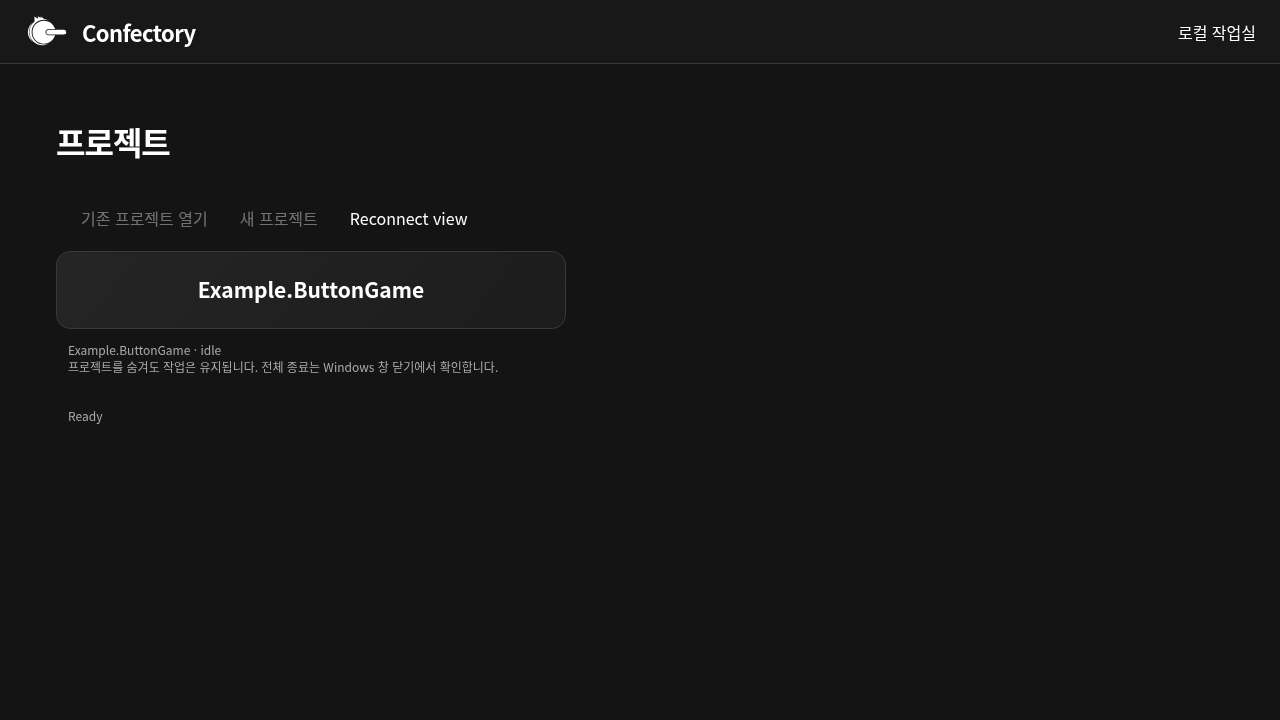
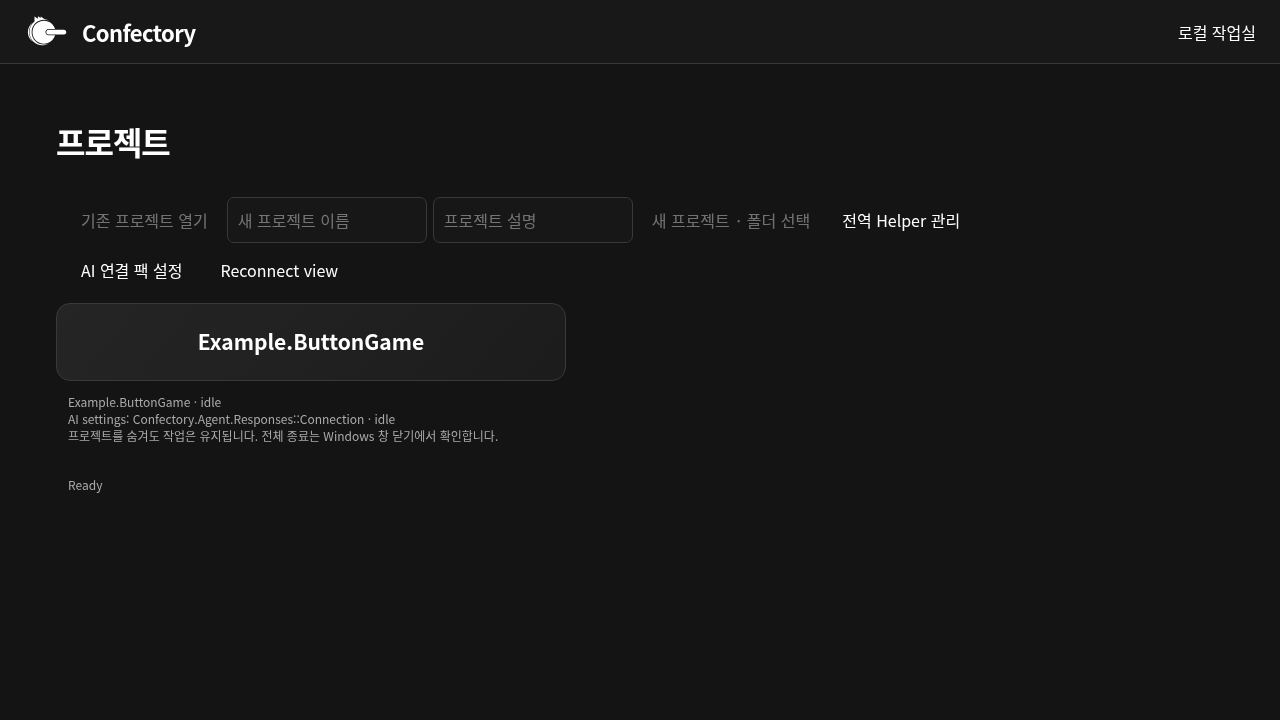
Connect field-origin schema navigation and record v196 final audit

diff --git a/examples/editor-home/ui/app.js b/examples/editor-home/ui/app.js
@@ -39,6 +39,7 @@ if(!schema){toast('Schema unavailable');return;}
  w.body.innerHTML=`<div class="window-content"><h2 data-schema-id>${esc(schema.id)}</h2><p>${esc(schema.description||'')}</p><p class="small">의미 객체 속성과 유효 스키마 · 필드 변경은 공유 초안에만 반영됩니다.</p><div data-schema-fields></div><div class="actions"><button data-operation id="semantic-save">Save · 작업 사본</button><button data-operation id="semantic-review">Review</button></div></div>`;
  $('#semantic-save',w.body).onclick=()=>work(()=>{if([...schemaInputs.keys()].some(key=>key.startsWith(current.projectId+'|'+schema.id+'|')))throw Error('필드 입력을 먼저 적용하세요. 입력은 유지됩니다.');return view.call(detached?'saveEditorView':'saveDraft',detached?{view:detached.view,id:schema.id}:{});},'Draft saved; final sources unchanged');$('#semantic-review',w.body).hidden=!!detached;$('#semantic-review',w.body).onclick=()=>work(async()=>{if(dirty||[...schemaInputs.keys()].some(key=>key.startsWith(current.projectId+'|'+schema.id+'|')))throw Error('미적용 입력을 먼저 적용하세요. 입력은 유지됩니다.');await view.call('reviewDraft',{id:schema.id,target:targetChoices.get(current.projectId)||current.runTarget});showReview();},'Review ready; final sources unchanged');
  const container=$('[data-schema-fields]',w.body);
+ const origins=[...new Set(schema.rows.map(row=>row.schemaOrigin).filter(id=>typeof id==='string'&&id!==schema.id))];if(origins.length){const links=document.createElement('div');links.className='actions';for(const id of origins){const button=document.createElement('button');button.dataset.operation='schema-origin';button.dataset.schemaOrigin=id;button.textContent='필드 정의 스키마 열기 · '+id;button.onclick=()=>act('select',{id});links.append(button);}container.append(links);}
  const metadata=Object.entries(schema.values||{}).filter(([,value])=>value!==null&&['string','number','boolean'].includes(typeof value)).map(([name,value])=>({metadata:true,name,type:typeof value,inputKind:typeof value==='string'?'text':typeof value==='boolean'?'boolean':'number',path:[name],value,writable:true}));
  if(schema.kind==='schema')renderDefinitions(schema,detached,w);
  for(const row of [...(schema.kind==='schema'?[]:schema.rows),...metadata]){

diff --git a/tests/web/semantic_authoring.py b/tests/web/semantic_authoring.py
@@ -23,10 +23,10 @@ def verify_schema_authoring(page,project,mount,send,envelope):
   if isinstance(value,bool):input.set_checked(value)
   else:input.fill(str(value))
   input.locator('..').get_by_role('button',name='Apply field',exact=True).click();expect(page.locator('#status')).to_have_text('Shared field draft updated',timeout=30000);expect(input).to_be_enabled(timeout=30000)
- edit('note','real nested value');edit('enabled',True);edit('ticks[1]',5)
+ edit('note','real nested value');edit('enabled',True);edit('ticks[1]',5);page.screenshot(path='/tmp/confectory-v196-schema-authoring.png',full_page=True)
  # A retained semantic window stays pinned while primary selection moves to its schema definition.
  close();browser();page.locator('#keep-properties').click();prop=page.locator('.window[data-key="editor-1"]');expect(prop.locator('[data-schema-id]')).to_have_text(prefix+'PreviewSettings')
- prop.locator('[data-schema-field="note"]').fill('unsent nested input');prop.locator('[data-close]').click();browser();page.locator('[data-id="'+prefix+'SceneSpec"]').click();expect(page.locator('.window[data-key="schema"] [data-schema-id]')).to_have_text(prefix+'SceneSpec');close();browser();page.locator('#retained-editors button').click();expect(prop.locator('[data-schema-field="note"]')).to_have_value('unsent nested input');prop.locator('[data-schema-field="note"]').locator('..').get_by_role('button',name='현재 값으로 되돌리기',exact=True).click();prop.locator('[data-operation="release-view"]').click();expect(page.locator('#retained-editors button')).to_have_count(0)
+ prop.locator('[data-schema-field="note"]').fill('unsent nested input');expect(prop.locator('[data-schema-origin="'+prefix+'EntryMeta"]')).to_have_count(1);prop.locator('[data-schema-origin="'+prefix+'SceneSpec"]').click();expect(page.locator('.window[data-key="schema"] [data-schema-id]')).to_have_text(prefix+'SceneSpec');expect(prop.locator('[data-schema-field="note"]')).to_have_value('unsent nested input');close();prop.locator('[data-close]').click();browser();page.locator('#retained-editors button').click();expect(prop.locator('[data-schema-field="note"]')).to_have_value('unsent nested input');prop.locator('[data-schema-field="note"]').locator('..').get_by_role('button',name='현재 값으로 되돌리기',exact=True).click();prop.locator('[data-operation="release-view"]').click();expect(page.locator('#retained-editors button')).to_have_count(0)
  browser();page.locator('#advanced-source').click();expect(page.locator('#status')).to_have_text('고급 소스 탐색',timeout=30000)
  state=mount();manifest_ids=[row['id'] for row in state['state']['units'] if row['kind']=='project'];assert len(manifest_ids)==1,state['state']['units'];assert send(envelope(state,'dispose'))['ok']
  for id in [prefix+'EntryMeta',prefix+'SceneSpec',prefix+'PreviewSettings',manifest_ids[0]]:page.locator('[data-review-id="'+id+'"]').check()

diff --git a/docs/EDITOR_V196_FINAL_AUDIT.md b/docs/EDITOR_V196_FINAL_AUDIT.md
@@ -1,0 +1,34 @@
+# v196 consumer final verification
+
[1 lines of base64/hex data omitted]
+
+## Page comparison
+
+| Original page / intent | Current consumer and verification | Remaining scope |
+| --- | --- | --- |
+| Home / projects / participant sidebar | Actual project cards and explicit open/create host adapters; hide returns to Home while owned work continues. Global Helper list/recruit metadata available. Original logo and nine portraits retained. | Home spacing/participant tile grouping differs; social/friends/profile customization and adjustable participant columns are not ported. Browser has no native picker; Windows picker awaits user verification. |
+| Workspace / floating windows / Dock | Original dark workspace and Dock resources; move/resize/fold/hide/raise and project-scoped layout retention. Three independent owned source/property slots share the real draft. Polling and hide/reopen preserve IDs, selection and pending input without stealing focus. | Arbitrary bottom/sidebar splitter sizing and exact visual parity are incomplete. Browser focus/input retention was tested; Windows IME/focus remains user verification. |
+| Semantic browser / concept-function-module intent | Actual declaration kind and bounded ID search; object/schema/module/function/implementation exploration, actual body IDs, owned object/schema creation. | Original category hierarchy, thumbnail/grid/table preview, multi-column sorting and full category/module creation menus remain presentation/authoring work; no equivalent mock tree is substituted. |
+| Object / complex / list data | Actual object schema rows, typed scalar/reference/function-reference leaves, nested compound paths and existing list item paths; detached owner input retains its original revision. | List insert/reorder, parent creation, null/unset/delete/default/required behavior lack an approved editing policy. Extreme 64-bit numeric precision is unverified. |
+| Schema window | Actual field definition forms for name, cardinality, kind and type; group Review/Confirm. Explicit field-origin buttons open each real defining schema, including compound definitions, through existing owned selection. No default Monster schema. | Adding/replacing/removing an object's `use schema` relation has no public workspace authoring command; explicit advanced source remains available. No primary-schema rule or multi-schema precedence is invented. |
+| Project conversation / Logs | Original bottom panel presents project-scoped draft/conversation and Logs. Save Draft, content preview, individual approvals and Start remain separate; Worker has no personal chat. | Exact original chat transcript styling differs; persistent arbitrary bottom height is incomplete. |
+| Helper / Agent / Worker | Existing project membership/memory controls and nonsecret connection-settings packs; actual Worker status dots, goal/progress/blocker and source review/adoption/recovery records. Global list/recruit management is local. | Global Talk requires a project-independent Agent owner, binding lifetime and explicit recruitment/private-memory content approvals. Custom profiles/recruitment templates and social participants are incomplete; no new authentication/accounts are created. |
+| Augmentation / direction | Genuine three-card snapshot, eligibility/rarity/effort/risk, reroll/direction preview and ordinary Task selection. Production Responses transport and public scoped tools verified against an owned loopback server. | Original full-screen offer animation/overlay differs. Real account/model execution is deferred. |
+| YogiBox | Exact selected object, local text, bounded visible-editor DOM capture, validated image preview, remove/seal/unseal/discard. Bytes absent from routine state. | Arbitrary region/native OS capture and actual recipient delivery are not implemented. Sealing is not delivery; transmission policy remains undecided. |
+| Save / Review / Confirm | Local drafts persist separately; exact source IDs/token and compiler review precede final Confirm. Positive Worker adoption uses the existing receipt/Task record, with goal evidence limited to compiler/source acceptance. | Original per-property semantic acceptance/conflict UI is not equivalent to current source-unit review. Merge/partial-property conflict policy is not invented; large-group paging remains bounded by common state limits. |
+| Pack / build / settings | Declared target selection feeds existing Run (build then execute) and compiler Review. Nonsecret AI settings use actual schema and original settings protection. | Pack enable/disable editing and a separate build-only/export job workflow are absent. Target selection is implemented and must not be described as export support. |
+
+## Decisions required for remaining blocked behavior
+
+- Object/schema relation authoring needs an explicit public command, revision/scope guard, and rules for add/replace/remove and multiple applied schemas. Scalar metadata `value` cannot express these relations; `field` edits schema definitions and `data-path` edits data, not application relations.
+- Container/list mutations need identity/order, missing-parent, inherited override, null/unset/delete and review-granularity decisions. Existing editable leaves remain usable.
+- Global Helper Talk needs an owner for a project-independent Agent and a permission preview covering recruitment template and every owner-private memory item consumed by `Helper::Talk`. Project permissions cannot silently authorize that different content/lifetime.
+- Standalone export needs a public job/lifetime/output contract. Existing target choice does not establish one. External Yogi delivery and conflict/charge policies remain outside approval.
+
+## Evidence and exit boundary
+
+Final Chromium: **1 passed, 0 failed, 0 skipped (398.810s)**; final Windows/Android ordinary managed builds: **tool.ok=true, 37 included packs each**. Linux actual native regression previously passed (209.363s), and its Model/native path is unchanged by this final HTML navigation patch. Current stable-source gate outcomes are recorded in [AI_DEVELOPMENT_STATUS.md](AI_DEVELOPMENT_STATUS.md). [Original workspace](evidence/v196/original-project.png) and [consumer semantic workspace](evidence/v196/semantic-project.png) demonstrate layout adaptation. [Original schema](evidence/v196/original-schema.png) and [actual nested object](evidence/v196/consumer-nested-schema.png) screenshots accompany this audit. Reference pages directly inspected: Home, browser/workspace, object/schema, augmentation, Helper conversation, packs and Review.
+
+Windows actual execution is **awaiting user verification**: managed cross-builds do not prove WebView2 rendering/frame capture, native picker, complete-close, resize or IME. Android managed compilation is verified; APK/device execution remains deferred. Linux actual native regression and actual Chromium are independent successful gates. main, Android settings, original ZIP and paused original HEAD/18 file hashes are preserved. User PC, live AI, new credentials/accounts, external delivery and Sites edits were not performed.
+
+No additional contract-free feature connection remains identified in this scoped closeout. Remaining presentation/authoring items are explicitly partial and need a subsequent scope or the decisions above; this closeout does not expand those policies.

diff --git a/docs/AI_DEVELOPMENT_STATUS.md b/docs/AI_DEVELOPMENT_STATUS.md
@@ -1,5 +1,15 @@
 # AI development implementation and verification boundary
 
+## 2026-10-11 v196 scoped closeout and field-origin schema navigation
+
+Final connection audit found one existing-contract omission: object property views now project each real field `schemaOrigin` and provide explicit navigation to its owned schema. Compound child origins remain distinct; no arbitrary primary-schema choice is made. Clicking from an independent view changes primary selection while its bound object ID and pending input remain intact. This does not assign, replace or remove an applied schema: PackWorkspace has no public relation authoring command, and scalar metadata/field/data commands cannot represent that operation.
+
+The frozen ZIP Home/browser/schema/augmentation/Helper/packs/Review pages were directly rendered and inspected against consumer evidence. [Final page comparison and required decisions](EDITOR_V196_FINAL_AUDIT.md) separates actual connections from visual/authoring gaps. Declared Run/Review target selection is implemented; a standalone build-only/export job is absent. Windows actual execution awaits user verification. Global Talk ownership/approval and list/null/delete/multiple-schema policies remain explicit blockers; this closeout adds no policy or live account work.
+
+Final stable-source production Chromium: **1 passed, 0 failed, 0 skipped (398.810s)** (`/tmp/confectory-final-audit-browser2.log`). The actual nested object exposes distinct EntryMeta/SceneSpec origins; its independent view opens SceneSpec while retaining its exact object ID and unsent note through hide/raise. All prior capture/Worker adoption/schema group Confirm/target/chat/source/run-stop regressions remain included.
+
+Final ordinary Windows and Android managed builds both report `tool.ok=true`, 37 included packs (`/tmp/confectory-final-audit-windows.json`, `/tmp/confectory-final-audit-android.json`). Static launcher 4 passed; JS/Python syntax and diff checks pass. The preceding Linux native menu/tabs/run/logs/resize/context/lifetime result remains applicable: this closeout changes only HTML assets/DTO and their browser regression, not Model or native UI. The first final browser attempt timed out before EditorHome announced its host URL and is not acceptance evidence; a new Xorg/DISPLAY matching the previously passing environment was supplied for the completed gate recorded below.
+
 ## 2026-10-11 v196 local capture, schema authoring and positive HTML Worker
 
 The ordinary consumer now captures an explicitly owned visible editor window through the original v196 html2canvas resource and existing YogiBox reservation/completion contracts. RGB bytes, dimensions, hash and ownership are checked; routine state omits pixels and explicit local image viewing retrieves one owned item. Capture is bounded DOM rasterization, not a native OS screenshot or external delivery.

diff --git a/docs/EMBEDDED_WEB_UI.md b/docs/EMBEDDED_WEB_UI.md
@@ -81,3 +81,7 @@ Home global Helper management consumes existing list/recruit/profile metadata; n
 The offline HTML Worker fixture uses the production Responses HTTP protocol, empty credential binding and an owned 127.0.0.1 server. It does not replace Main, Provider, models, ProjectPack, source validator or build behavior. Requests exercise real per-turn approvals, exactly three Augment cards, ordinary Task dispatch, public scoped read/stage tools, unchanged final files before adoption, group Review, exact compiler-backed source adoption and local completion records. Goal evidence explicitly states that game runtime behavior was not executed. No test-only production branch, credentials/authentication, live service, merge/replay/charge/delivery policy or platform budget exception is added.
 
 Final stable-source Chromium: **1 passed, 0 failed, 0 skipped (311.788s)**. The original pack exercises capture/hash rejection, schema creation, nested/list scalar editing, reviewed group Confirm, declared target choice and positive Worker adoption through the production Responses transport. Extreme 64-bit numeric precision, arbitrary capture regions and large-group paging remain unverified. Final platform outcomes are recorded in AI_DEVELOPMENT_STATUS.md.
+
+## v196 final closeout
+
+Each object property view now exposes explicit buttons for every distinct field `schemaOrigin` (including compound member origins) and opens the real owned schema through ordinary selection. This is navigation, not assigning/replacing an object’s schema relation. Detached object input stays bound when primary selection moves. Public PackWorkspace has no relation authoring command; scalar `value`, schema `field` and object `data-path` do not substitute for one. See the [page-by-page final audit and remaining decisions](EDITOR_V196_FINAL_AUDIT.md). Declared target choice is connected; a separate export job is not. Windows actual execution awaits user verification.
